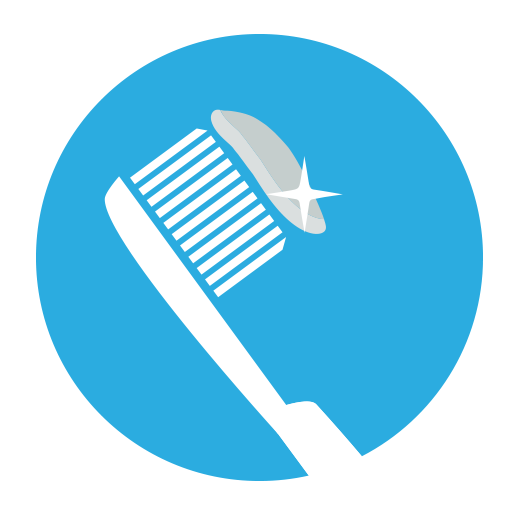
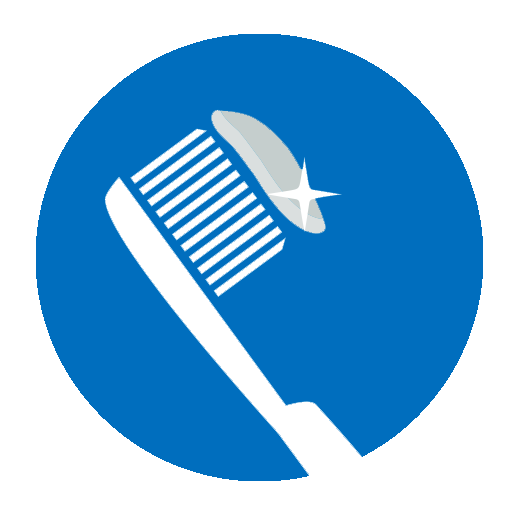
Dodao ikonice i namestio hover efekat u fajlu flexslider.js

diff --git a/index.html b/index.html
@@ -138,7 +138,7 @@
                 <div class="txt-block txt5">
 
 
-                <img src="assets/img/toothbrush.png" alt="Zweite Meinung" title="Zweite Meinung" width="114px" height="103px">
+                <img src="assets/img/toothbrush.png" alt="Zweite Meinung" title="Zweite Meinung" width="114px" height="103px" class='ikonica1'>
 									<h4>Verlagen sie eine Gegeofferte</h4>
 									<p >
 										Lorem ipsum dolor sit amet, consectetur adipiscing elit. Mauris sagittis felis dolor vitae.
@@ -150,7 +150,7 @@
                 <div class="txt-block txt3">
 
 
-                <img src="assets/img/dentist.png" alt="" title="" height="103px">
+                <img src="assets/img/dentist.png" alt="" title="" height="103px" class='ikonica2'>
 									<h4>Multipurpose & Multipager</h4>
 									<p >
 										Lorem ipsum dolor sit amet, consectetur adipiscing elit. Mauris sagittis felis dolor vitae.
@@ -162,7 +162,7 @@
                 <div class="txt-block txt4">
 
 
-                <img src="assets/img/zweiteMeinung.png" alt=""  height="103px">
+                <img src="assets/img/zweiteMeinung.png" alt=""  height="103px" class='ikonica3'>
                   <h4>Multipurpose & Multipager</h4>
                   <p >
                     Lorem ipsum dolor sit amet, consectetur adipiscing elit. Mauris sagittis felis dolor vitae.

diff --git a/assets/js/jquery.flexslider.js b/assets/js/jquery.flexslider.js
@@ -5,12 +5,31 @@
  */
 ;
 (function ($) {
+  //Kod za hover - ikonice
    $('.ikonica').hover(function(){
     $(this).attr('src','assets/img/dent1.png');
    },function(){
     $(this).attr('src','assets/img/dent.png');
    });
 
+   $('.ikonica1').hover(function(){
+    $(this).attr('src','assets/img/toothbrush1.png');
+   },function(){
+    $(this).attr('src','assets/img/toothbrush.png');
+   });
+
+   $('.ikonica2').hover(function(){
+    $(this).attr('src','assets/img/dentist1.png');
+   },function(){
+    $(this).attr('src','assets/img/dentist.png');
+   });
+
+   $('.ikonica3').hover(function(){
+    $(this).attr('src','assets/img/zweiteMeinung1.png');
+   },function(){
+    $(this).attr('src','assets/img/zweiteMeinung.png');
+   });
+//Kod za hover - ikonice
   //FlexSlider: Object Instance
   $.flexslider = function(el, options) {
     var slider = $(el);
